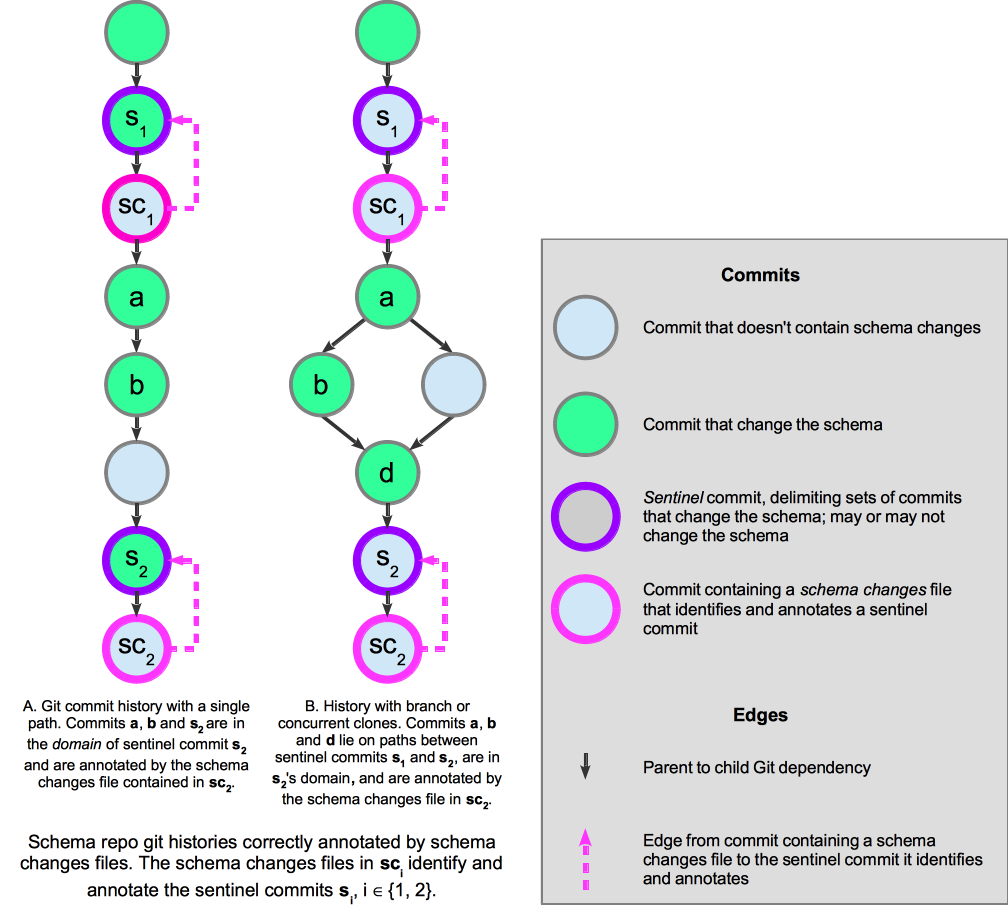
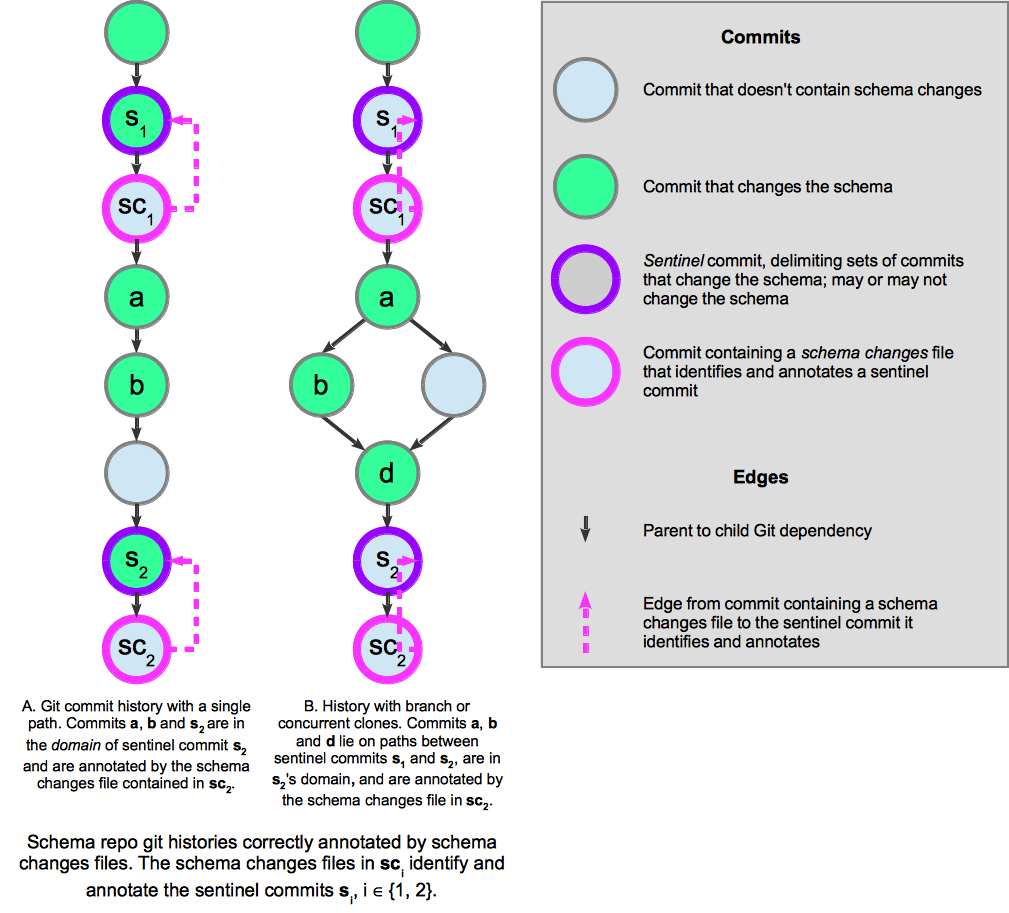
update a couple of figures; revise the todos

diff --git a/docs/migration.rst b/docs/migration.rst
@@ -148,9 +148,7 @@ Migration migrates a data file across a sequence of sentinel commits.
     still depend on exactly one upstream sentinel commit, s\ :sub:`1`, and
     are ancestors of exactly one downstream sentinel commit, s\ :sub:`2`.
 
-.. todo: important: modify the figure to illustrate a sentinel commit's domain and that it can contain schema changes
-.. todo: important: illustrate illegal sentinel commit configurations
-.. todo: important: remove schema changes files from the figure
+.. todo: important: illustrate illegal sentinel commit configurations in which schema change commits INCORRECTLY depend on multiple sentinels
 
 Configuration files
 ^^^^^^^^^^^^^^^^^^^
@@ -183,8 +181,6 @@ describe these user-customized configuration files and code fragments in greater
    :file: migration/migrations_rst_tables_data_repo_config.csv
    :widths: 20, 80
 
-.. todo: important: add figure showing relationship between schema changes files and Sentinel commits
-
 Example configuration files
 ^^^^^^^^^^^^^^^^^^^^^^^^^^^
 
@@ -201,42 +197,32 @@ schema versions above:
 All schema changes files contain these fields:
 :obj:`commit_hash`, :obj:`renamed_models`, :obj:`renamed_attributes`, and :obj:`transformations_file`.
 
-* :obj:`commit_hash` is the hash of the sentinel Git commit that the Schema changes file annotates. That is, as illustrated in :numref:`figure_commit_dependencies`, the commit identified in the *Schema changes* file must depend on all commits that modified the schema since the closest upstream sentinel commit.
+* :obj:`commit_hash` is the hash of the sentinel Git commit that the Schema changes file annotates. That is, as illustrated in :numref:`figure_annotated_history_of_updates_in_schema_example`, the commit identified in the *Schema changes* file must depend on all commits that modified the schema since the closest upstream sentinel commit.
 
 * :obj:`renamed_models` is a YAML list that documents all *Model*\ s in the schema that were renamed. Each renaming is given as a pair of the form :obj:`[ExistingName, ChangedName]`.
 
 * :obj:`renamed_attributes` is a YAML list that documents all attributes in the schema that were renamed. Each renaming is given as a pair in the form :obj:`[[ExistingModelName, ExistingAttrName], [ChangedModelName, ChangedAttrName]]`.  If the *Model* name hasn't changed, then :obj:`ExistingModelName` and :obj:`ChangedModelName` will be the same. :obj:`transformations_file` optionally documents the name of a Python file that contains a class which performs custom transformations on all *Model* instances as they are migrated.
 
-.. _figure_commit_dependencies:
-.. figure:: migration/figures/commit_dependencies.png
+.. _figure_annotated_history_of_updates_in_schema_example:
+.. figure:: migration/figures/annotated_history_of_updates_in_schema_example.png
     :width: 800
-    :alt: Dependency graph of Git commits and schema changes files that annotate them
+    :alt: Example schema changes for the updates from the *existing* to the *changed* schema above
 
-    Dependency graph of Git commits that change a schema and the schema changes files that annotate them.
-    These graphs illustrate Git commit dependency graphs. Directed edges point
-    from a parent commit to a child commit that depends on it.
+    Example schema changes for the updates from the *existing* to the *changed* schema above.
+    This figure illustrates
+    alternative Git histories of the schema changes and migration annotations that would occur
+    when updating the schema repo to reflect the changes between the *existing* and the *changed* schemas above.
     By default, a schema changes file identifies its parent commit as the sentinel commit that it
     annotates. 
     However, a schema changes file may identify a sentinel commit further back in the dependency graph.
     The identification is implemented by storing the sentinel commit's hash in the schema changes file's
     :obj:`commit_hash`.
-    The legend shows 3 colored commits that contain the changes made between the
-    *existing* to *changed* versions of the schema above.
-    The orange commit must be upstream from the blue commit because
-    the orange commit accesses *Model* :obj:`Test` and
-    the blue commit renames *Model* :obj:`Test` to *Model* :obj:`ChangedTest`.
-    The two commit histories in the **Correct use of Schema changes files** section
-    show proper use of Schema changes files.
-    In the **Sequential** history the last commit containing a Schema changes file is properly downstream from
-    all commits changing the schema.
-    In the **Branches or concurrent clones** history, the final
-    commit containing a Schema changes file is also properly downstream from the commits changing the schema.
-    However, in the **Incorrect use of Schema changes file** section, the final
-    commit containing a Schema changes file is incorrectly placed because it is not downstream from
-    the green commit. Migration of a data file with this history would fail.
-
-.. todo: important: synchronize this figure with schema_changes_and_sentinel_commits.png, adding sentinel commits
-.. todo: replace "Incorrect use of Schema changes file" with more sophisticated example in which changes commit depends on multiple sentinels
+    The changes between the *existing* and the *changed* schemas are separated into three
+    commits, **a**, **b**, and **c**.
+    **a** and **b** must both occur before **c**, 
+    because **a** and **b** both access *Model* :obj:`Test` whereas
+    **c** renames *Model* :obj:`Test` to *Model* :obj:`ChangedTest`.
+    The two alternative commit histories both satisfy these constraints.
 
 Template schema changes files are generated by the CLI command :obj:`make-changes-template`, as described below.
 
@@ -360,7 +346,7 @@ We illustrate incorrect and correct placement of sentinel commits in :numref:`fi
     :alt: Placement of schema changes commits in a Git history
 
     Placement of schema changes commits in a Git history (this figure reuses the legend in
-    :numref:`figure_commit_dependencies`).
+    :numref:`figure_annotated_history_of_updates_in_schema_example`).
     Migration topologically sorts the commits annotated by the schema changes files (indicated by thick outlines).
     In **A**, since the blue diamond commit and green pentagon commit have no dependency relationship in the
     Git commit DAG, they can be sorted in either order.
